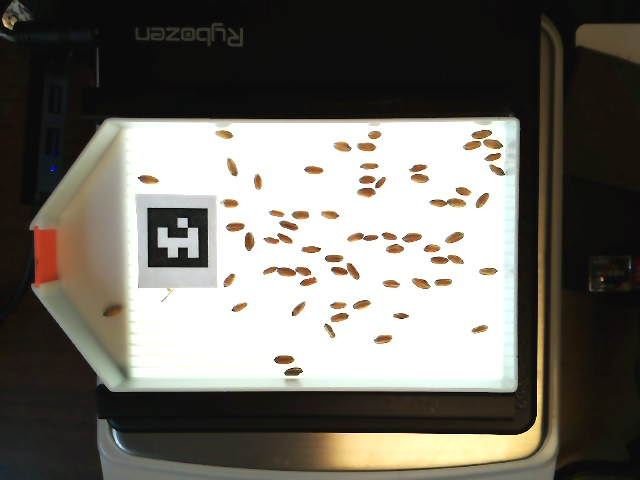
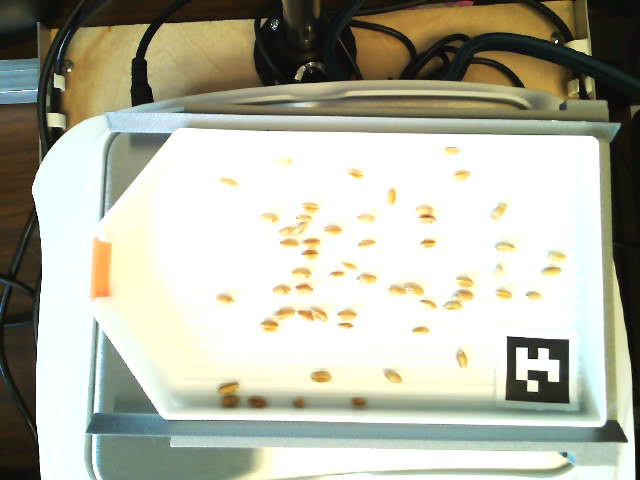
modified scale_reader

diff --git a/read_weight/scale_reader.py b/read_weight/scale_reader.py
@@ -23,9 +23,11 @@ class scale_reader:
         self._serial = None
 
         # port_name = "Dtech USB Serial Controller"
-        device_names = ["Prolific PL2303GT USB Serial","Dtech USB Serial Controller"]
+        device_names = ["Prolific PL2303GT USB Serial","Dtech USB Serial Controller", "USB-SERIAL CH340"]
             
         port = self.find_device(device_names)
+
+        # print(f"port: {port}")
 
          
         #initializing the serial object
@@ -125,3 +127,6 @@ if __name__ == '__main__':
 
     while True:
         print(scale.read_weight_as_value())
+        # print(scale.read_weight())
+        # pass
+
